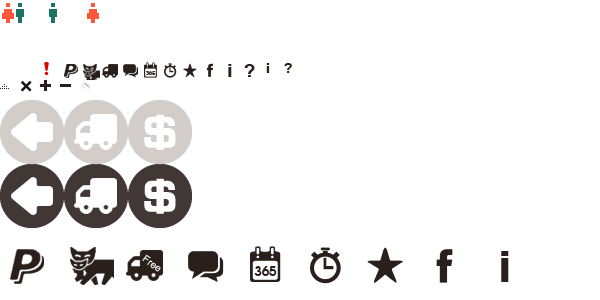
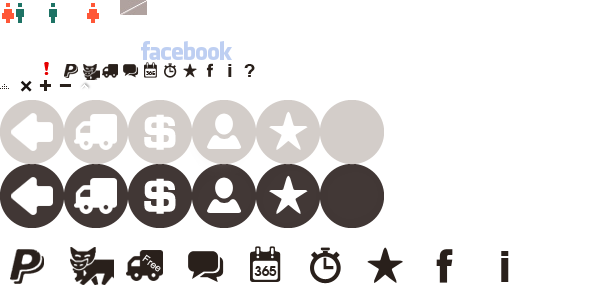
20121024

diff --git a/empor/static/style/style.css b/empor/static/style/style.css
@@ -596,6 +596,7 @@ input[type="radio"] {
 .xs_icon-subtract {background-position:-60px -80px;margin-top:5px;}
 .xs_icon-remove {background-position:-20px -80px;filter:alpha(opacity=50); -moz-opacity: 0.5; opacity: 0.5; }
 .xs_icon-remove:hover {filter:alpha(opacity=100); -moz-opacity: 1; opacity: 1; }
+.xs_icon-open {background-position:-80px -80px;margin-left:3px; margin-top:1px;}
 .s_icon-info {background-position:-260px -60px;}
 .s_icon-help {background-position:-280px -60px;}
 .s_icon-fb {background-position:0px -60px;}
@@ -617,12 +618,16 @@ input[type="radio"] {
 .l_icon-gender.men {background-position:-40px 0px;}
 .l_icon-gender.women {background-position:-80px 0px;}
 .l_icon-gender.unisex {background-position:0px 0px;}
-.xl_icon-buy {background-position:-128px -100px;}
-.span3:hover .xl_icon-buy {background-position:-128px -164px;}
-.xl_icon-send {background-position:-64px -100px;}
-.span3:hover .xl_icon-send {background-position:-64px -164px;}
+.xl_icon-member {background-position:-192px -100px;}
+a:hover .xl_icon-member {background-position:-192px -164px;}
+.xl_icon-pay {background-position:-128px -100px;}
+a:hover .xl_icon-pay {background-position:-128px -164px;}
+.xl_icon-delivery {background-position:-64px -100px;}
+a:hover .xl_icon-delivery {background-position:-64px -164px;}
 .xl_icon-refund {background-position:0px -100px;}
-.span3:hover .xl_icon-refund {background-position:0px -164px;}
+a:hover .xl_icon-refund {background-position:0px -164px;}
+.xl_icon-brand {background-position:-256px -100px;}
+a:hover .xl_icon-brand {background-position:-256px -164px;}
 .f_icon-paypal {background-position:0px -240px;}
 .f_icon-bcat {background-position:-60px -240px;}
 .f_icon-free {background-position:-120px -240px;}
@@ -784,7 +789,8 @@ table {
 }
 .cart h2,
 .cart_open h2,
-.cart_s h3 {
+.cart_s h3,
+#confirm-form h3 {
 	text-align:right;
 }
 /*wrapper*/
@@ -799,7 +805,7 @@ table {
 	padding-bottom:50px;
 }
 .black_bg {
-	background: rgba(25, 20, 15, 0.9);
+	background: rgba(25, 20, 15, 0.95);
 	position:fixed;
 	right: 0;
 	left: 0;
@@ -905,34 +911,42 @@ table {
 	color: white;
 	font-size: 20px;
 	line-height: 28px;
-	float: left;
 	width: auto;
 	padding: 50px;
-	margin-bottom: 30px;
+	width:740px;
+	margin: 0 auto;
 }
 #menuopen_wrapper .menu_box h2 {
-	color: #00B4C8;
+	color: #d3cdc9;
 	line-height: 50px;
 	font-size: 40px;
 	margin-bottom: 20px;
-}
-#menuopen_wrapper .menu_box h2 i {
-float: left;
-margin-right: 0px;
-margin-top: -10px;
+	text-align:center;
+	font-family: "font_a",Arial,Helvetica,sans-serif;
 }
 #menuopen_wrapper .menu_box ul {
 	list-style-type: none;
-	margin: 0px;
+	margin: 0 auto;
 	padding: 0px;
-	float: left;
-	margin-right: 50px;
+	
 }
-#menuopen_wrapper .menu_box ul .title {
-	font-weight: bold;
-	font-size: 24px;
-	color: #bfb1ae;
-	margin-bottom: 10px;
+#menuopen_wrapper .menu_box li {
+	float:left;
+	margin:4px;
+	border:#fff 1px solid;
+	padding:30px;
+	filter:alpha(opacity=20);
+	-moz-opacity: 0.2;
+	opacity: 0.2;
+}
+#menuopen_wrapper .menu_box li:hover {
+	filter:alpha(opacity=100);
+	-moz-opacity: 1;
+	opacity: 1;
+}
+
+#menuopen_wrapper .menu_box li img {
+	width:176px;
 }
 #menuopen_wrapper .menu_box a {
 	color: #fff;
@@ -942,8 +956,39 @@ margin-top: -10px;
 }
 
 /*index*/
+#left_menu_wrapper {
+	position:relative;
+	width:200px;
+	float:left;
+	margin:10px;
+}
+#left_menu_wrapper .brand img {
+	width:160px;
+	margin: 0 20px 5px 20px;
+}
+#left_menu_wrapper .nav-list > li > a {
+	filter:alpha(opacity=30);
+	-moz-opacity: 0.3;
+	opacity: 0.3;
+}
+#left_menu_wrapper .nav-list:hover > li > a,
+#left_menu_wrapper .nav-list .nav-header,
+#left_menu_wrapper .nav-list > li.nav-header > a {
+	filter:alpha(opacity=70);
+	-moz-opacity: 0.7;
+	opacity: 0.7;
+}
+#left_menu_wrapper .nav-list:hover > li > a:hover,
+#left_menu_wrapper .nav-list > .active > a,
+#left_menu_wrapper .nav-list > .active > a:hover,
+#left_menu_wrapper .nav-list:hover .nav-header {
+	filter:alpha(opacity=100);
+	-moz-opacity: 1;
+	opacity: 1;
+}
 .index_itembox_list {
 	position:relative;
+	float:left;
 }
 .index_itembox {
 	overflow: hidden;
@@ -1081,10 +1126,6 @@ h3 .l_icon-gender {
     width: 400px;
 	margin: 10px auto;
 	min-height:200px;
-    position: absolute;
-    z-index:2;
-    top: 50px;
-    right: 10px;
 }
 .itemopen h1 {
 	font-size:100px;
@@ -1236,7 +1277,7 @@ h3 .l_icon-gender {
 	border: 1px solid #d3cdc9;
 	background-image:url("../images/all_icon.png");
 	background-repeat:no-repeat;
-	background-position:-60px -60px;
+	background-position:-120px 0px;
 	cursor:default;
 }
 .itemopen .data .size_link {
@@ -1654,7 +1695,7 @@ strike {
 .nav .nav-header {
   display: block;
   padding: 3px 0px;
-  font-size: 11px;
+  font-size: 14px;
   font-weight: bold;
   line-height: 18px;
   color: #413735;
@@ -1668,17 +1709,11 @@ strike {
 .nav-list {
   padding-right: 15px;
   padding-left: 15px;
-  margin-bottom: 0;
-}
-
-.nav-list > li > a,
-.nav-list .nav-header {
-  margin-right: -15px;
-  margin-left: -15px;
+  margin-bottom: 15px;
 }
 
 .nav-list > li > a {
-  padding: 3px 15px;
+  padding: 3px 10px;
 }
 
 .nav-list > .active > a,
@@ -1698,23 +1733,26 @@ strike {
 	width:100%;
 	float:left;
 	margin-bottom:15px;
+	margin-left: 20px;
 }
 .help_menu h3 {
 	margin-top:0px;
 }
-.help_menu .span3 {
+.help_menu a {
 	border:#ccc 1px dotted;
 	text-align: center;
-	width: 235px;
+	width: 150px;
+	float: left;
+	margin-right: 10px;
 }
-.help_menu .span3:hover {
+.help_menu a:hover {
 	background:#d3cdc9;
 }
 .help_menu i {
 	margin:10px auto;
 }
 .help_content {
-	width:755px;
+	width:800px;
 	float:left;
 	margin-bottom:15px;
 	padding: 0 20px;
